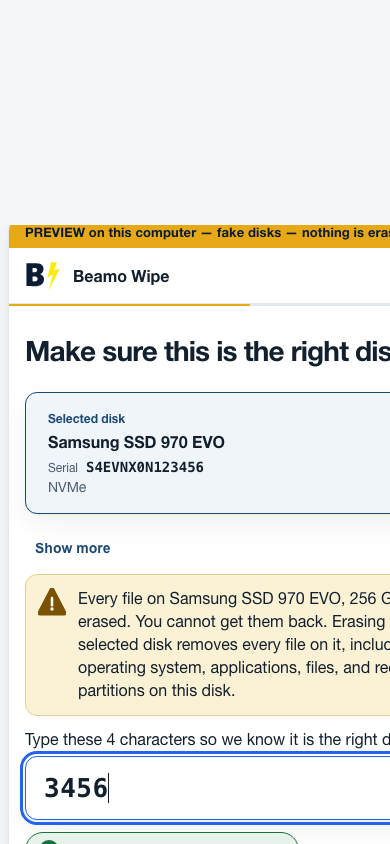
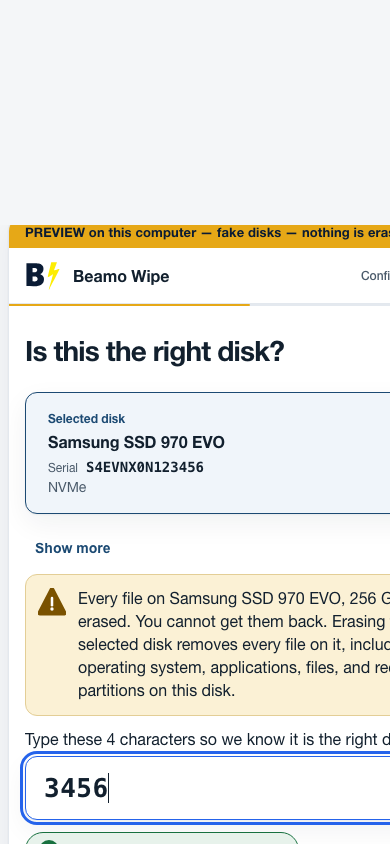
feat: name only the current wizard step and simplify leads
Drop the eight numbered journey circles. The header now reads
"Confirm · Step 4 of 8". Confirm asks "Is this the right disk?"
Method and last-check leads drop jargon. The boot helper opens
with the same three-step path.

Fake disks only.

Changed region(s): [[0.0615, 0.4005, 1.0, 0.4313], [0.9231, 0.3081, 1.0, 0.3389]]

diff --git a/helper/index.html b/helper/index.html
@@ -198,6 +198,10 @@
       <span>This page does not erase anything. Restart the computer and press the key for your PC.</span>
     </p>
     <div class="card">
+      <h2>After this USB starts</h2>
+      <p>Choose a disk → Confirm its identity → Review and erase. Nothing is erased until you confirm.</p>
+    </div>
+    <div class="card">
       <h2>Start from your desktop</h2>
       <p>On Windows, open <strong>Start Beamo Wipe.exe</strong> on this USB. On a supported Linux desktop, open <strong>Start Beamo Wipe Linux</strong>. The launcher shows separate checks for the original USB, whether startup settings can be read, and whether a supported restart route is available. Each check explains what to do next; Technical details shows the evidence.</p>
       <p>A check that is not verified is not a pass. If startup settings cannot be read, administrator permission may be needed. If a guided restart is unavailable, use the boot instructions below. Save your work before restarting. These checks do not guarantee that the USB will boot.</p>

diff --git a/src/beamo_wipe/gallery.py b/src/beamo_wipe/gallery.py
@@ -354,15 +354,9 @@ _TEMPLATE = r"""<!DOCTYPE html>
   .brandrow { display: flex; align-items: center; gap: 12px; font-size: 16px; font-weight: 700; }
   .brandchip { display: flex; align-items: center; justify-content: center; flex: none; }
   .brandchip svg { display: block; }
-  .journey { display: flex; flex: 1; max-width: 680px; list-style: none; margin: 0 24px; padding: 0; }
-  .journey li { flex: 1; position: relative; text-align: center; font-size: 11px; font-weight: 600; letter-spacing: .02em; color: var(--muted); }
-  .journey li::before { content: ""; position: absolute; top: 9px; left: calc(50% + 12px); width: calc(100% - 24px); border-top: 1px solid var(--border); }
-  .journey li:last-child::before { display: none; }
-  .journey .done::before { border-top-color: var(--primary-tint); }
-  .journey .number { display: block; width: 18px; height: 18px; line-height: 16px; margin: 0 auto 6px; border: 1px solid var(--border-strong); border-radius: 50%; background: var(--surface); font-weight: 600; color: var(--muted); }
-  .journey .done .number { color: var(--primary); background: var(--primary-tint); border-color: var(--primary); }
-  .journey [aria-current="step"] { color: var(--ink); }
-  .journey [aria-current="step"] .number { color: white; background: var(--primary); border-color: var(--primary); }
+  /* Current-step text lives in .steptext. The list is a screen-reader
+     name only — never a numbered map of the whole journey. */
+  .journey { position: absolute; width: 1px; height: 1px; overflow: hidden; clip: rect(0 0 0 0); }
   .review-grid { display: grid; grid-template-columns: minmax(0, 1fr) 200px; gap: 24px; margin-top: 8px; }
   .review-grid .countcap { max-width: 260px; text-align: center; }
   .review-warning { color: var(--danger); font-weight: 700; overflow-wrap: anywhere; }
@@ -527,7 +521,7 @@ _TEMPLATE = r"""<!DOCTYPE html>
   .compact-notice { padding: 8px 16px; font-size: 14px; }
   .card .meta .ser { display: block; }
   .page, .shell, .body, .col { min-width: 0; }
-  @media (max-width: 1000px) { .journey { display: none; } }
+  @media (max-width: 1000px) { .hdr { padding: 0 16px; } }
   @media (max-width: 700px) {
     .review-grid { grid-template-columns: minmax(0, 1fr); }
     .review-grid .ringwrap { padding: 12px 0; }
@@ -776,6 +770,11 @@ function refreshPreview() {
   method = "everyday"; tLeft = 5; showMore = false; screen = "what";
   draw();
 }
+function headerCaption(info) {
+  const n = info[0], label = info[1];
+  if (n && String(label).indexOf("Step ") === 0) return P.journey[n - 1] + " · " + label;
+  return label;
+}
 function draw() {
   // Countdown redraws must preserve deliberate keyboard focus. Entering
   // final review always starts on Back, including screenshot deep links.
@@ -783,13 +782,9 @@ function draw() {
     && document.activeElement.matches(".foot button") ? document.activeElement.textContent : null;
   const info = stepInfo();
   const stepEl = document.getElementById("step");
-  document.getElementById("journey").innerHTML = info[0] ? P.journey.map((label, index) => {
-    const n = index + 1;
-    const cls = n < info[0] ? ' class="done"' : '';
-    const cur = n === info[0] ? ' aria-current="step"' : '';
-    return `<li${cls}${cur}><span class="number">${n}</span>${esc(label)}</li>`;
-  }).join("") : "";
-  stepEl.textContent = info[1];
+  document.getElementById("journey").innerHTML = info[0]
+    ? `<li aria-current="step">${esc(headerCaption(info))}</li>` : "";
+  stepEl.textContent = headerCaption(info);
   stepEl.style.visibility = stepEl.textContent ? "visible" : "hidden";
   document.getElementById("sfill").style.width = (info[0] / 8 * 100) + "%";
   const main = document.getElementById("main");
@@ -946,7 +941,7 @@ function draw() {
           <div class="grow">
             <div class="title"><span class="kbd">${m.key}</span><span style="margin-left:10px">${m.title}</span>${id === "everyday" ? `<span class="chip ok">${P.recommended}</span>` : ""}</div>
             <div class="methodblurb">${m.blurb}</div>
-            <div class="methodpace"><svg width="16" height="16" viewBox="0 0 16 16"><circle cx="8" cy="8" r="6.5" fill="none" stroke="#4C5B6B" stroke-width="1.6"/><path d="M8 4.2V8l2.6 1.7" fill="none" stroke="#4C5B6B" stroke-width="1.6" stroke-linecap="round" stroke-linejoin="round"/></svg><span>${m.pace}</span></div>
+            <div class="methodpace"><svg width="16" height="16" viewBox="0 0 16 16"><circle cx="8" cy="8" r="6.5" fill="none" stroke="#4A5A6A" stroke-width="1.6"/><path d="M8 4.2V8l2.6 1.7" fill="none" stroke="#4A5A6A" stroke-width="1.6" stroke-linecap="round" stroke-linejoin="round"/></svg><span>${m.pace}</span></div>
           </div>
         </div>
       </div>`;

diff --git a/src/beamo_wipe/ui/tk_wizard.py b/src/beamo_wipe/ui/tk_wizard.py
@@ -94,6 +94,16 @@ RING_SIZE = 64
 RING_PAD = 6
 RING_W = 4
 
+
+def header_caption(step_n: int, step_label: str) -> str:
+    """One current-step label. Not a map of every step, and not a control."""
+    if not step_label:
+        return ""
+    if step_n and step_label.startswith("Step "):
+        return f"{C.JOURNEY_LABELS[step_n - 1]} · {step_label}"
+    return step_label
+
+
 _STEP_ORDER = {
     Screen.KEYBOARD: (0, "", C.TITLE_KEYBOARD),
     Screen.WHAT: (1, "Step 1 of 8", C.TITLE_WHAT),
@@ -1082,41 +1092,15 @@ class TkWizard:
             text_x, mid, anchor="w",
             text=C.APP_NAME, font=self.font_brand, fill=INK,
         )
-        # The screen title below names the step; the header only carries
-        # quiet progress text ("Step 3 of 8"), never a duplicate title.
+        # The screen title below names the work. The header only names the
+        # current position ("Confirm · Step 4 of 8"), never a full step map.
         step = _STEP_ORDER.get(self.w.screen, (0, "", ""))
-        self._draw_journey(cv, width, step[0])
-        label = step[1]
+        label = header_caption(step[0], step[1])
         if label:
             cv.create_text(
                 width - 24, mid, anchor="e",
                 text=label, font=self.font_meta, fill=MUTED,
             )
-
-    def _draw_journey(self, cv: tk.Canvas, width: int, step: int) -> None:
-        # Numbered steps are positions, never success badges or shortcuts.
-        if not step or width < 1000:
-            return
-        start, end = 260, width - 150
-        gap = (end - start) / len(C.JOURNEY_LABELS)
-        for index, name in enumerate(C.JOURNEY_LABELS, 1):
-            cx = start + gap * (index - 0.5)
-            active = index == step
-            done = index < step
-            if index < len(C.JOURNEY_LABELS):
-                cv.create_line(
-                    cx + 13, 18, cx + gap - 13, 18,
-                    fill=PRIMARY_TINT if index < step else BORDER, width=1,
-                )
-            if active:
-                fill, outline, nfill, lfill = PRIMARY, PRIMARY, SURFACE, INK
-            elif done:
-                fill, outline, nfill, lfill = PRIMARY_TINT, PRIMARY, PRIMARY, MUTED
-            else:
-                fill, outline, nfill, lfill = SURFACE, BORDER_STRONG, MUTED, MUTED
-            cv.create_oval(cx - 10, 8, cx + 10, 28, fill=fill, outline=outline)
-            cv.create_text(cx, 18, text=str(index), font=self.font_tiny, fill=nfill)
-            cv.create_text(cx, 42, text=name, font=self.font_meta, fill=lfill)
 
     def _draw_strip(self) -> None:
         cv = self._strip

diff --git a/tests/test_ui_rework.py b/tests/test_ui_rework.py
@@ -9,7 +9,7 @@ import pytest
 
 from beamo_wipe import copy as C
 from beamo_wipe.models import Screen
-from beamo_wipe.ui.tk_wizard import _Button
+from beamo_wipe.ui.tk_wizard import _Button, header_caption
 from test_design_runtime import descendants
 from test_tk_runtime import ui, _drive_to, _clipping_problems, _off_window_problems  # noqa: F401
 
@@ -71,13 +71,18 @@ def test_header_wayfinding_fits_and_cannot_navigate(ui):  # noqa: F811
     header = app._header
     labels = {header.itemcget(item, "text"): item for item in header.find_all()
               if header.type(item) == "text"}
-    for text in (*C.JOURNEY_LABELS, "Step 4 of 8"):
-        item = labels[text]
-        x0, y0, x1, y1 = header.bbox(item)
-        assert 0 <= x0 < x1 <= header.winfo_width()
-        assert 0 <= y0 < y1 <= header.winfo_height()
-        header.event_generate("<Button-1>", x=int((x0 + x1) / 2), y=int((y0 + y1) / 2))
-        app.root.update()
-        assert wiz.screen == Screen.CONFIRM
-        assert not wiz.token_ok
-        assert wiz.confirm_input == ""
+    caption = header_caption(4, "Step 4 of 8")
+    assert caption == "Confirm · Step 4 of 8"
+    assert caption in labels
+    for extra in C.JOURNEY_LABELS:
+        if extra != "Confirm":
+            assert extra not in labels
+    item = labels[caption]
+    x0, y0, x1, y1 = header.bbox(item)
+    assert 0 <= x0 < x1 <= header.winfo_width()
+    assert 0 <= y0 < y1 <= header.winfo_height()
+    header.event_generate("<Button-1>", x=int((x0 + x1) / 2), y=int((y0 + y1) / 2))
+    app.root.update()
+    assert wiz.screen == Screen.CONFIRM
+    assert not wiz.token_ok
+    assert wiz.confirm_input == ""

diff --git a/src/beamo_wipe/copy.py b/src/beamo_wipe/copy.py
@@ -29,7 +29,7 @@ TITLE_KEYBOARD = "Check your keyboard"
 TITLE_WHAT = "Here's what happens"
 TITLE_OWNER = "Is this your computer?"
 TITLE_PICK = "Which disk should we erase?"
-TITLE_CONFIRM = "Make sure this is the right disk"
+TITLE_CONFIRM = "Is this the right disk?"
 TITLE_METHOD = "Choose an erase method"
 TITLE_ADVANCED = "Advanced"
 TITLE_LAST = "Review before erasing"
@@ -186,11 +186,10 @@ CONFIRM_MATCH_OK = "That matches. You can continue."
 COUNTDOWN_CAPTION = "seconds until Erase is available."
 COUNTDOWN_READY = "Nothing has started. Choose Erase now to erase this disk."
 
-METHOD_LEAD = "Compare overwrite and read-back passes."
+METHOD_LEAD = "Pick how thoroughly to overwrite the disk."
 
 LAST_LEAD = (
-    "Check the selected disk and method. Reaching zero only enables Erase; "
-    "it never starts erasure."
+    "Check the selected disk and method. The countdown never starts erasure."
 )
 AUTHORIZATION_STALE = "The disk or method changed. Confirm again."
 
@@ -294,7 +293,7 @@ HINT_KEYBOARD = "1, 2, or 3 chooses a layout. Type in the check box. Enter conti
 HINT_DEFAULT = "Enter continues.  Esc goes back."
 HINT_PICK = "Click a disk, or use Up/Down.  Enter continues.  Esc goes back."
 HINT_OWNER = "Space checks the box.  Enter continues when it is checked."
-HINT_METHOD = "Press 1, 2, or 3 to choose. L: storage limits. Enter continues."
+HINT_METHOD = "Press 1, 2, or 3 to choose. Enter continues."
 HINT_CONFIRM = "Type exactly what we ask for, then Enter."
 HINT_LAST_CHANCE = "Esc goes back.  Enter erases after the countdown."
 HINT_LAST_CHANCE_TK = "Esc goes back.  Tab to Erase, then Enter after the countdown."

diff --git a/tests/test_ui_system.py b/tests/test_ui_system.py
@@ -304,6 +304,21 @@ def test_light_surfaces_do_not_wrap_the_logo_in_a_navy_tile():
     assert chip and "background: var(--navy)" not in chip.group(0)
 
 
+def test_header_names_the_current_step_instead_of_a_full_map():
+    """Would fail on the eight numbered journey circles in the header."""
+    assert tkui.header_caption(4, "Step 4 of 8") == "Confirm · Step 4 of 8"
+    assert tkui.header_caption(1, "Step 1 of 8") == "Start · Step 1 of 8"
+    assert tkui.header_caption(3, "Identify the disk") == "Identify the disk"
+    assert tkui.header_caption(0, "") == ""
+    source = inspect.getsource(tkui.TkWizard._draw_header)
+    assert "_draw_journey" not in source
+    assert "header_caption" in source
+    html = gallery_html()
+    assert "function headerCaption" in html
+    assert ".journey .number" not in html
+    assert "P.journey[n - 1]" in html
+
+
 def test_modern_visual_system_replaces_utility_chrome():
     """Shared surfaces use the quieter palette, 12px corners, and pill actions.
 
@@ -324,7 +339,6 @@ def test_modern_visual_system_replaces_utility_chrome():
     assert "--pill: 999px" in html
     assert "--primary: #1C4A73" in html
     assert "border-radius: var(--pill)" in html
-    assert ".journey .done .number" in html
     helper = (ROOT / "helper" / "index.html").read_text(encoding="utf-8")
     assert "--radius: 12px" in helper
     assert "--primary: #1C4A73" in helper

diff --git a/tests/test_accessible_runtime.py b/tests/test_accessible_runtime.py
@@ -136,7 +136,8 @@ def test_accessible_refresh_requires_full_confirmation(ui, tmp_path, monkeypatch
     app.actions["Continue"].clicked()
     assert wizard.screen == Screen.LAST_CHANCE
     assert "Review before erasing" in text(app)
-    assert "Reaching zero only enables Erase; it never starts erasure." in text(app)
+    from beamo_wipe import copy as C
+    assert C.LAST_LEAD in text(app)
     assert not app.actions["Erase now"].get_sensitive()
     stale_erase = app.actions["Erase now"]
     app.actions["Check disks again (F5)"].clicked()

diff --git a/tests/test_console_parity.py b/tests/test_console_parity.py
@@ -183,7 +183,7 @@ def test_last_chance_and_done_keep_full_identity(method, monkeypatch):
         or METHODS[method].summary in shown
     )
     assert "Check the selected disk and method." in shown
-    assert "it never starts erasure." in shown
+    assert "never starts erasure" in shown
     footer = _footer(term)
     assert "Enter to erase" in footer or "Wait" in footer
     wiz.wants_shutdown = False

diff --git a/docs/evidence/modern-minimal-ui/README.md b/docs/evidence/modern-minimal-ui/README.md
@@ -8,8 +8,9 @@ warnings remain fully visible.
 ## What changed
 
 - Cooler ink/muted/border palette, 12px corners, pill actions
-- Completed vs current journey markers
-- Helper cards are rounded surfaces on a quiet field
+- Header names only the current step (`Confirm · Step 4 of 8`)
+- Confirm/method/last-check leads in plain language
+- Helper opens with the same three-step path as the wizard
 - WCAG 2.1 AA text and non-text contrast still pass
 
 ## Screenshots
